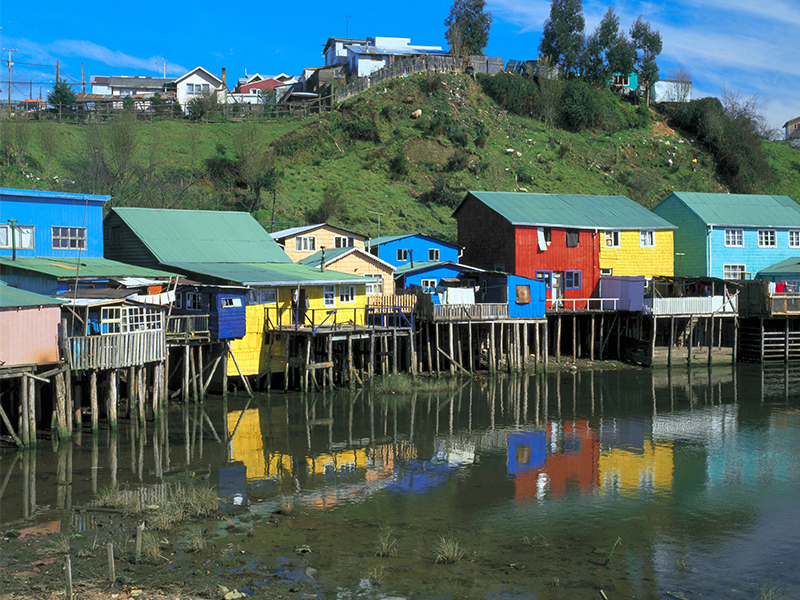
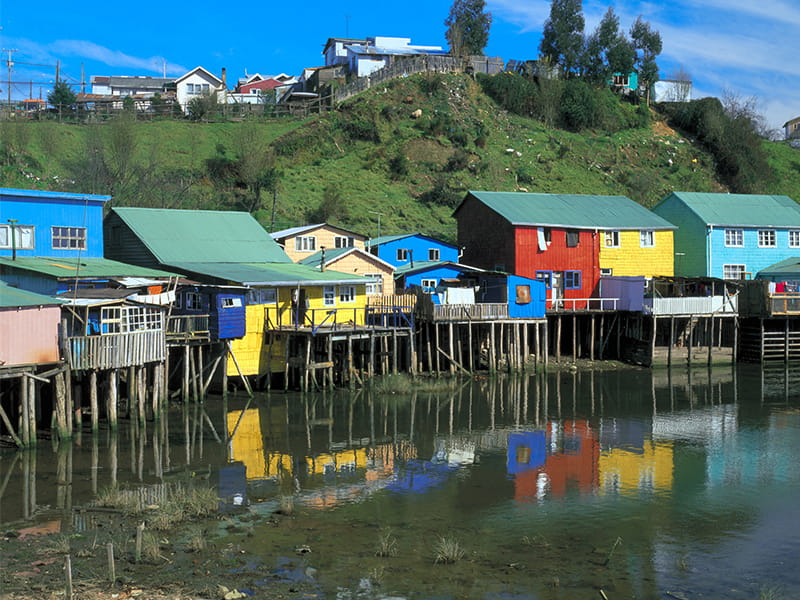
fixing1

diff --git a/index.html b/index.html
@@ -27,8 +27,16 @@
     <aside>
         <h2>Chile</h2>
         <img src="images/palafitos.jpg" alt="Palafitos de Castro">
-        <p> Chile is a country of southamerica, large and narrow. We have wonderful landscapes from
-            the desert to the Antartic.</p>
+        <p> Chile is a beautiful country located on the western coast of South America. It is famous
+            for its long and narrow shape, stretching over 4,000 kilometers from north to south.
+            Chile has
+            many different landscapes, including the Atacama Desert, the Andes Mountains, forests,
+            lakes, and Patagonia. The capital city is Santiago, which is the country's largest city.
+            Chile is
+            well known for its copper production, agriculture, seafood, and wine. Popular tourist
+            attractions include Easter Island and Torres del Paine National Park. The friendly
+            people, rich culture, and
+            breathtaking scenery make Chile a wonderful place to visit.</p>
     </aside>
     <footer>
         <p>©2026 🎇 Leonardo Valderas 🎇 Castro, Chiloé, Chile</p>

diff --git a/styles/styles.css b/styles/styles.css
@@ -21,6 +21,10 @@ main img {
     box-shadow: 0 0 30px gray;
 }
 
+main {
+    max-width: 1rem;
+}
+
 p {
     padding: 0;
 }